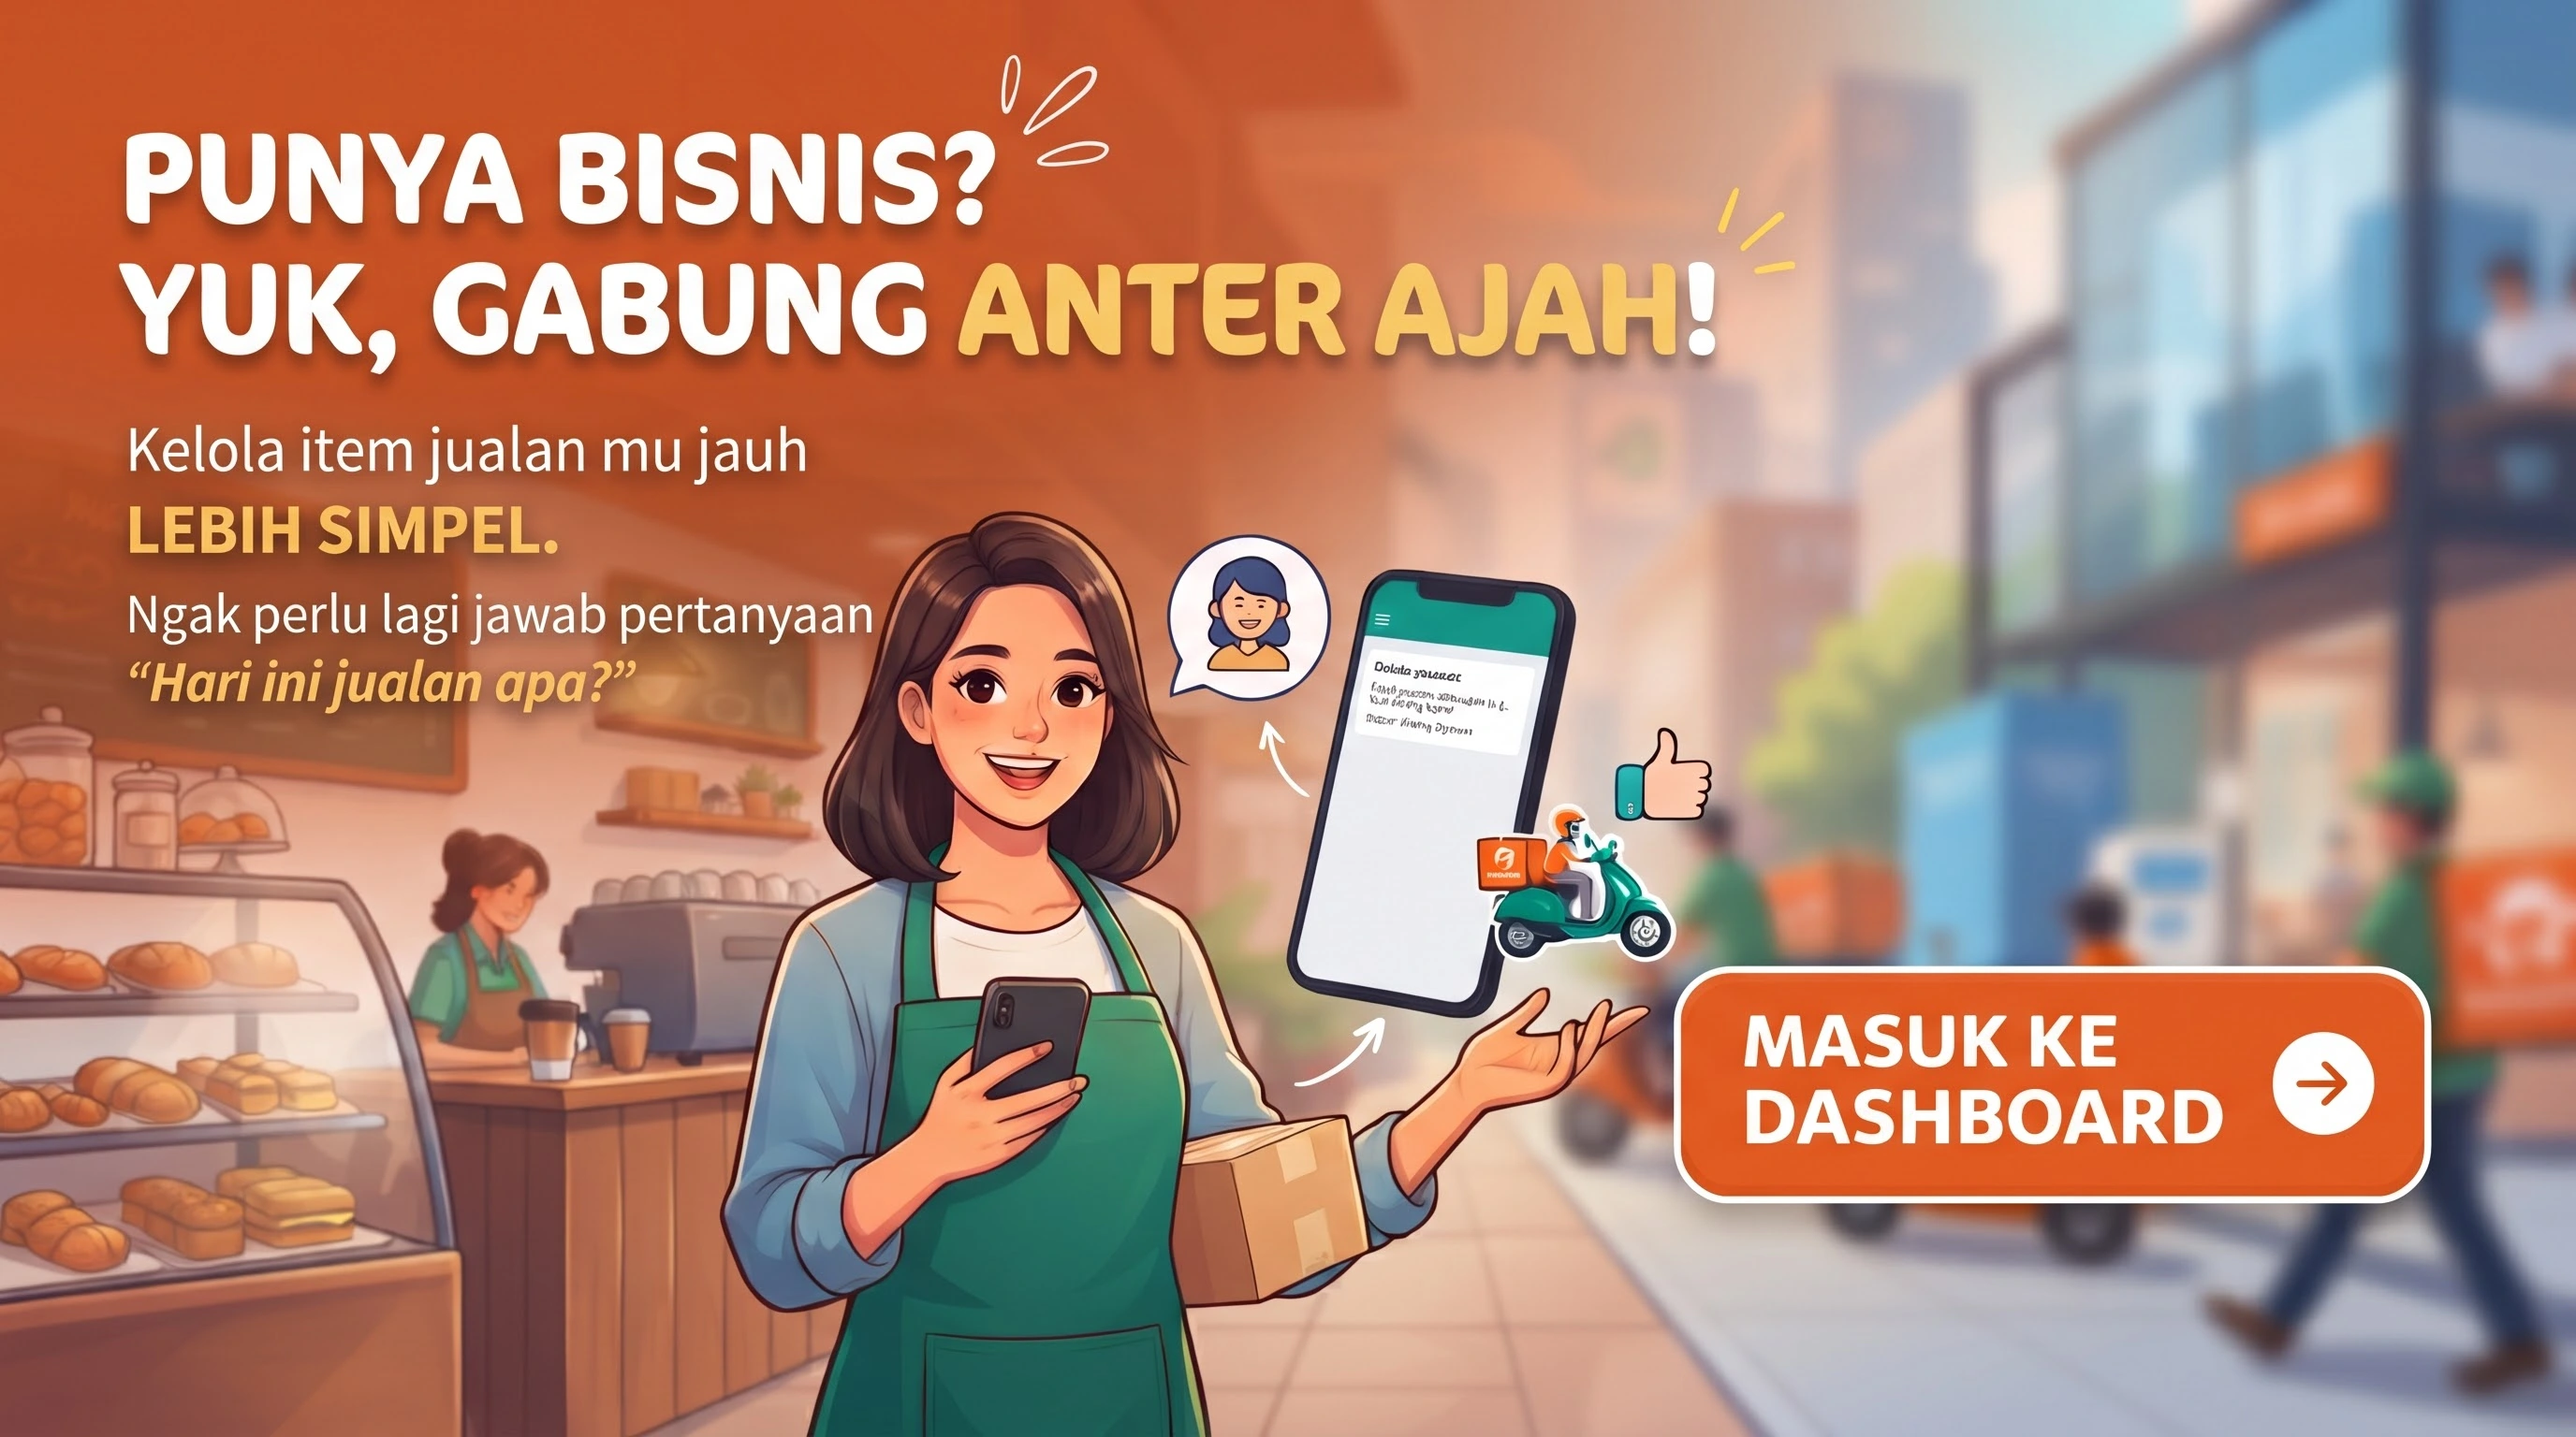
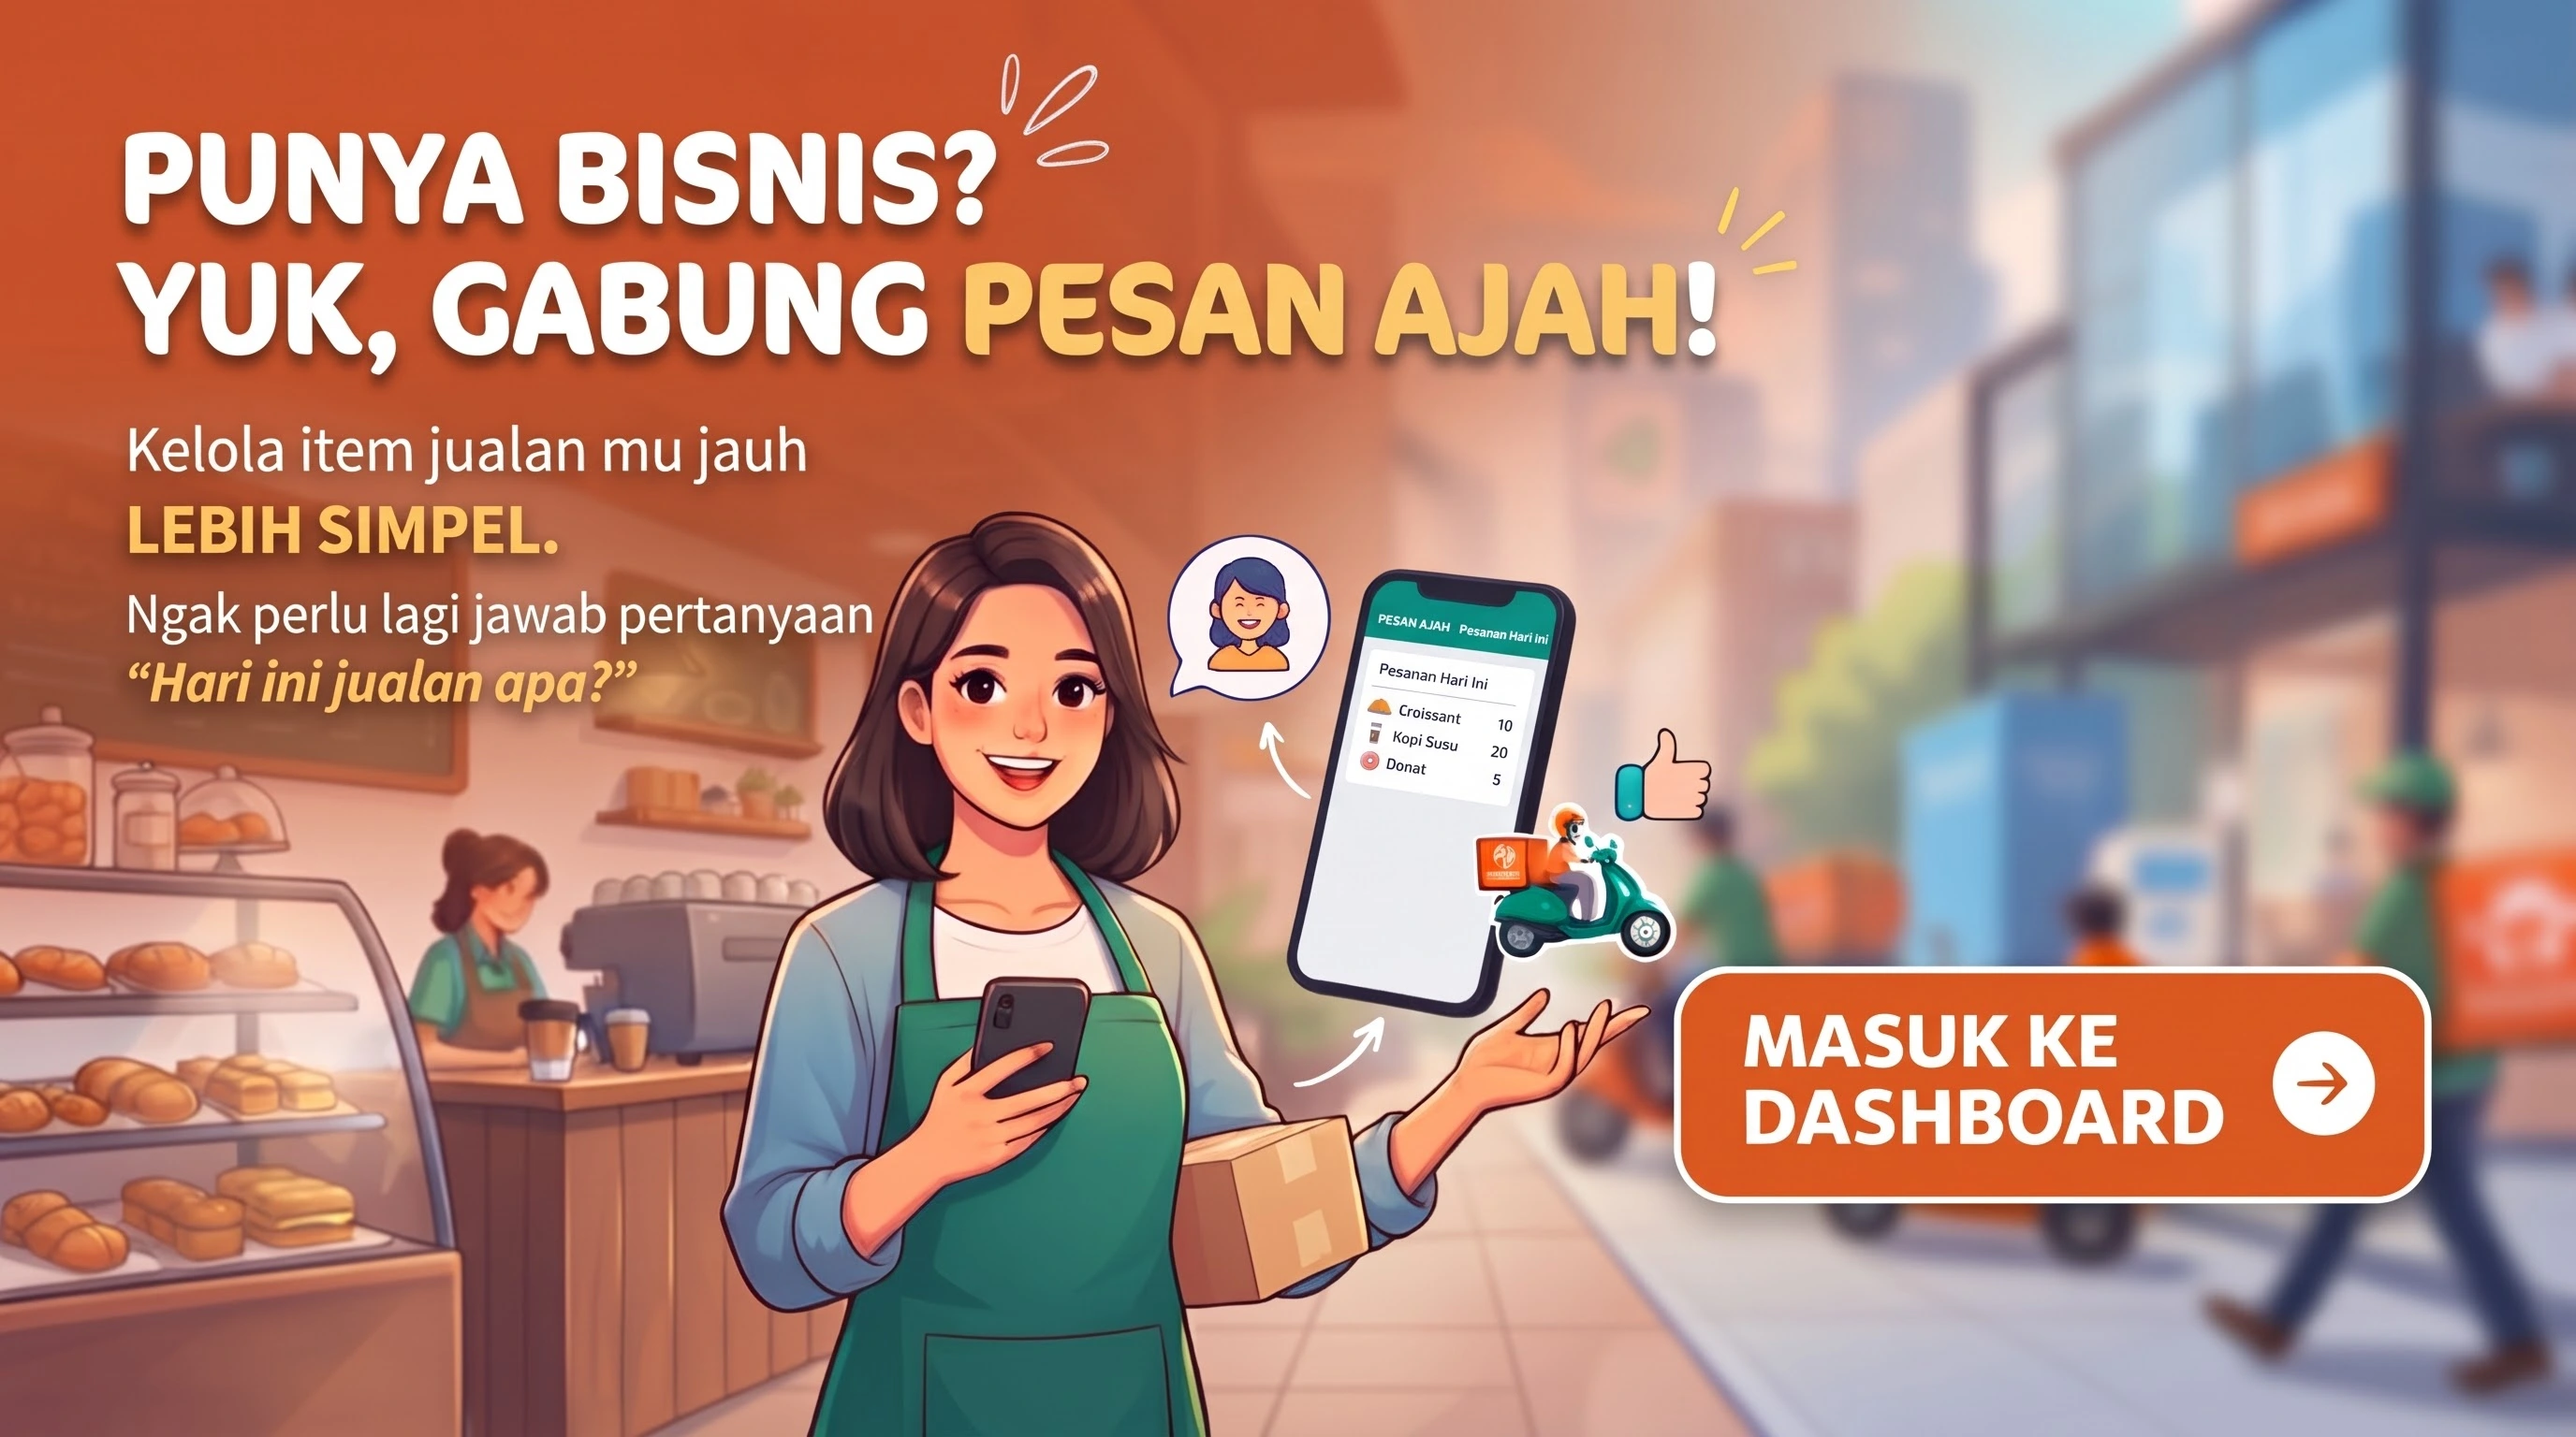
refactor(js): modularize homepage scripts

diff --git a/assets/js/pages/index/banner.js b/assets/js/pages/index/banner.js
@@ -1,17 +1,16 @@
-import { homepageBanners } from "../data/banner.js";
+import { homepageBanners } from "../../data/banner.js";
 
 /**
- * Inisialisasi interaksi khusus halaman index.php.
+ * Inisialisasi banner halaman beranda.
  *
- * Pencarian, reset katalog, dan banner beranda
- * dikelola dari file halaman ini.
+ * Tanggung jawab:
+ * - Merender slide dari data banner.
+ * - Menangani autoplay.
+ * - Menyinkronkan slide ketika pengguna menggeser banner.
+ * - Menghentikan autoplay ketika tab tidak aktif.
+ * - Menghormati preferensi reduced motion.
  */
-
-/* =========================================================
-   BANNER BERANDA
-   ========================================================= */
-
-function initHomepageBanner() {
+export function initHomepageBanner() {
   const carousel = document.querySelector("[data-banner-carousel]");
 
   if (!carousel) {
@@ -38,6 +37,7 @@ function initHomepageBanner() {
   }
 
   carousel.hidden = false;
+
   carousel.classList.toggle(
     "has-multiple-slides",
     banners.length > 1,
@@ -213,38 +213,4 @@ function initHomepageBanner() {
 
   updateActiveSlide(0);
   startAutoplay();
-}
-
-/* =========================================================
-   INTERAKSI HALAMAN BERANDA
-   ========================================================= */
-
-export function initIndexPage({ catalog } = {}) {
-  if (document.body.dataset.page !== "index") {
-    return;
-  }
-
-  const searchForm = document.querySelector("#search-form");
-  const searchInput = document.querySelector("#search-input");
-  const resetSearchButton = document.querySelector("#reset-search");
-
-  /* Pencarian produk. */
-  searchForm?.addEventListener("submit", (event) => {
-    event.preventDefault();
-
-    catalog?.setQuery(searchInput?.value ?? "");
-
-    document.querySelector("#products")?.scrollIntoView({
-      behavior: "smooth",
-      block: "start",
-    });
-  });
-
-  /* Tampilkan kembali seluruh produk. */
-  resetSearchButton?.addEventListener("click", () => {
-    catalog?.reset();
-  });
-
-  /* Banner hanya diinisialisasi di halaman beranda. */
-  initHomepageBanner();
 }

diff --git a/assets/js/pages/index/main.js b/assets/js/pages/index/main.js
@@ -1,0 +1,37 @@
+import { initHomepageBanner } from "./banner.js";
+
+/**
+ * Inisialisasi interaksi khusus halaman index.php.
+ *
+ * Pencarian dan reset katalog dikelola di sini.
+ * Banner beranda dikelola oleh banner.js.
+ */
+export function initIndexPage({ catalog } = {}) {
+  if (document.body.dataset.page !== "index") {
+    return;
+  }
+
+  const searchForm = document.querySelector("#search-form");
+  const searchInput = document.querySelector("#search-input");
+  const resetSearchButton = document.querySelector("#reset-search");
+
+  /* Pencarian produk. */
+  searchForm?.addEventListener("submit", (event) => {
+    event.preventDefault();
+
+    catalog?.setQuery(searchInput?.value ?? "");
+
+    document.querySelector("#products")?.scrollIntoView({
+      behavior: "smooth",
+      block: "start",
+    });
+  });
+
+  /* Tampilkan kembali seluruh produk. */
+  resetSearchButton?.addEventListener("click", () => {
+    catalog?.reset();
+  });
+
+  /* Inisialisasi banner khusus halaman beranda. */
+  initHomepageBanner();
+}

diff --git a/assets/js/main.js b/assets/js/main.js
@@ -5,7 +5,7 @@ import { showToast } from "./modules/toast.js";
 import { formatRupiah } from "./modules/format.js";
 import { initBuyerMenu } from "./modules/buyer-menu.js";
 
-import { initIndexPage } from "./pages/index.js";
+import { initIndexPage } from "./pages/index/main.js";
 
 const $ = (selector) => document.querySelector(selector);
 
